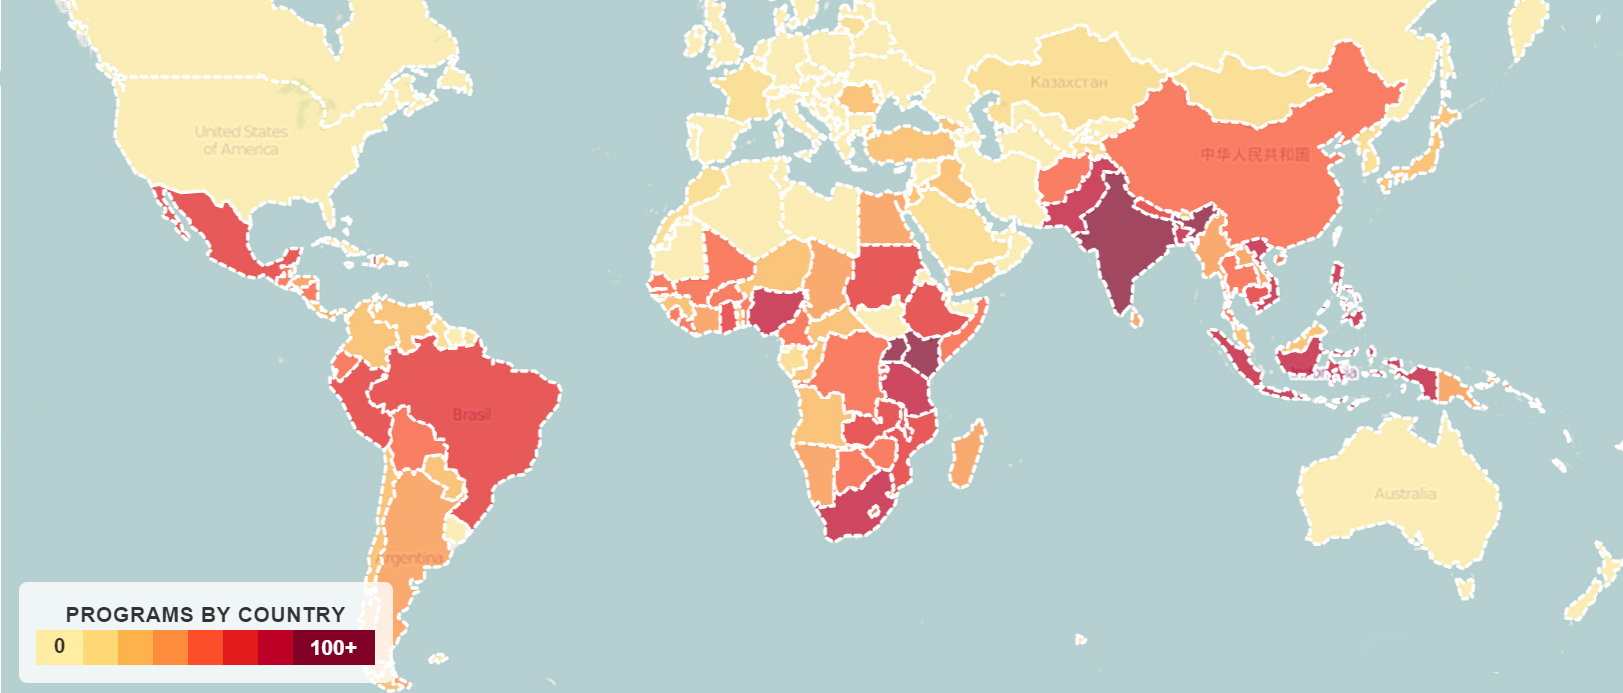
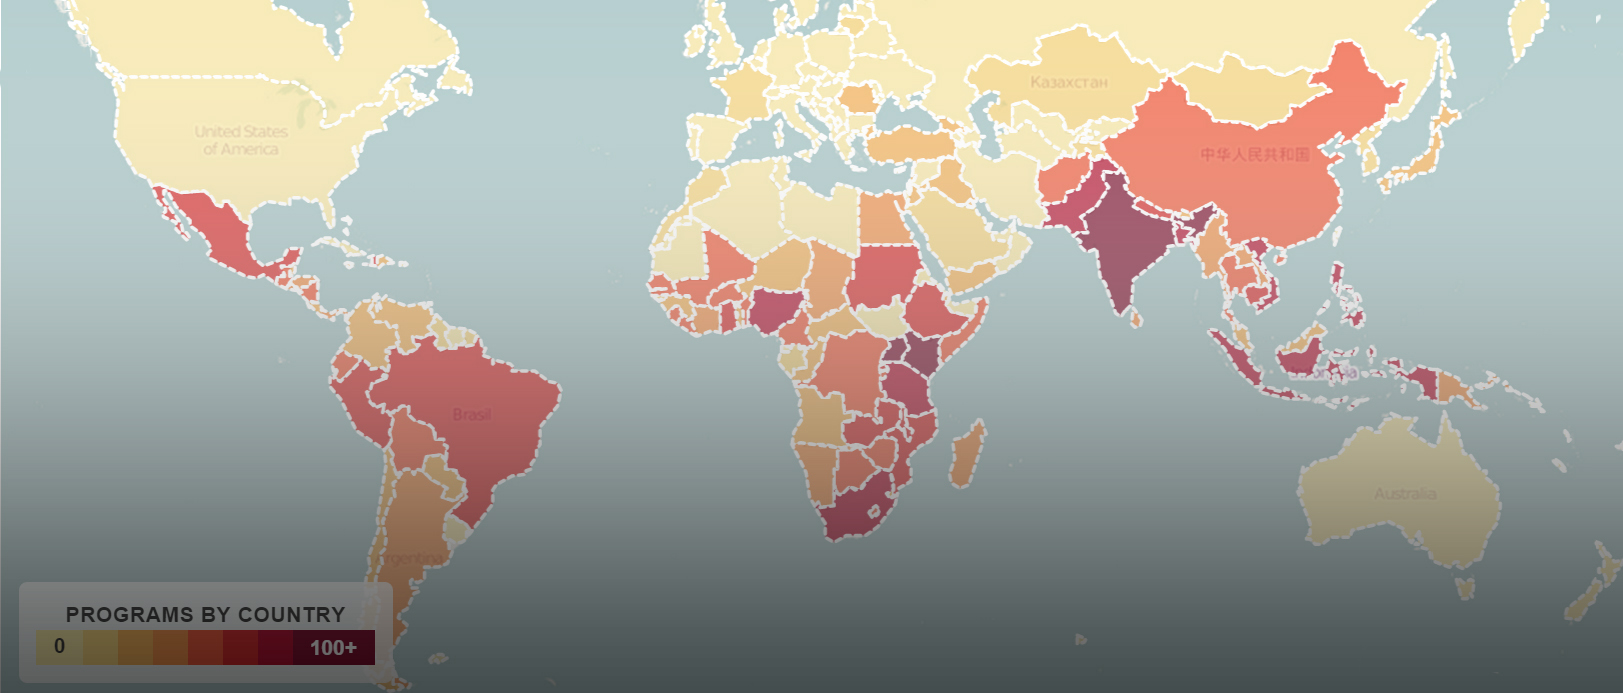
gradient fixes

diff --git a/css/app.css b/css/app.css
@@ -371,12 +371,13 @@ img.map{
   right: 0;
   top: 12vw;
 }
+/*
 .bw-gradient:after{
   content: ' ';
   max-width: 1290px;
   height: 38.9%;
   margin:0 auto;
-  background-image: linear-gradient(to bottom, rgba(255,255,255,0.4), rgba(0,0,0,1));*/
+  background-image: linear-gradient(to bottom, rgba(255,255,255,0.4), rgba(0,0,0,1));
   bottom: 0;
   left: 0;
   position: absolute;
@@ -385,6 +386,7 @@ img.map{
   opacity: 1;
   z-index:1;
 }
+*/
 .qsource{
   font-size: .7em;
   font-style: italic;
